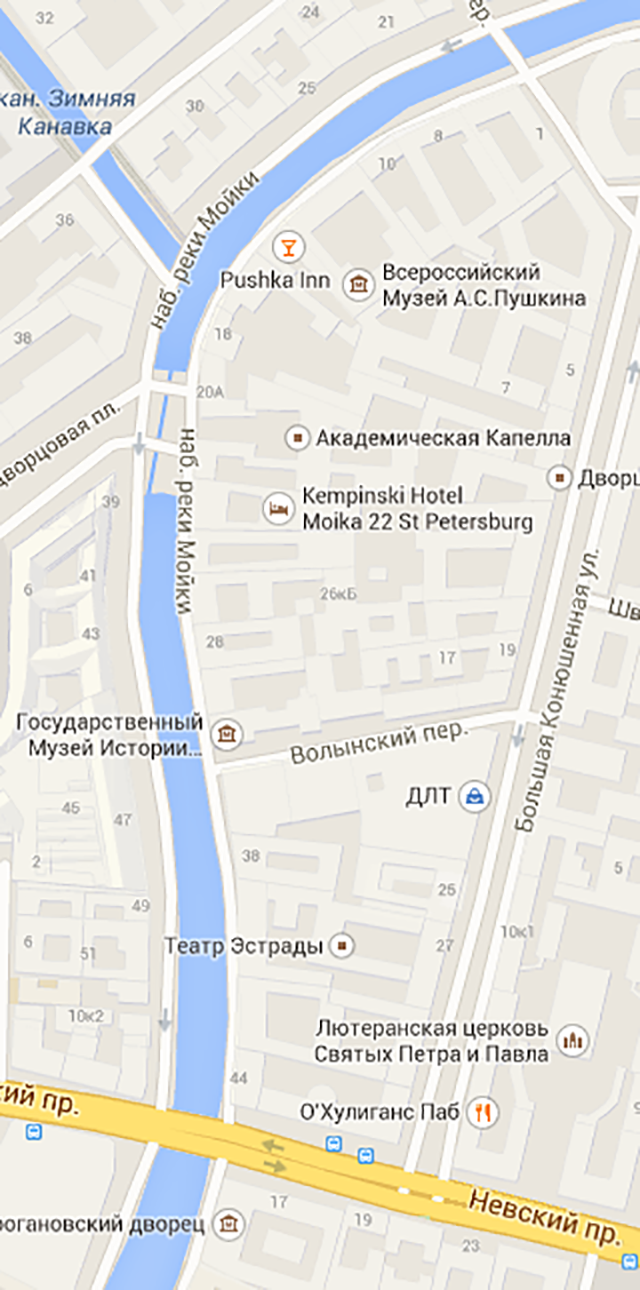
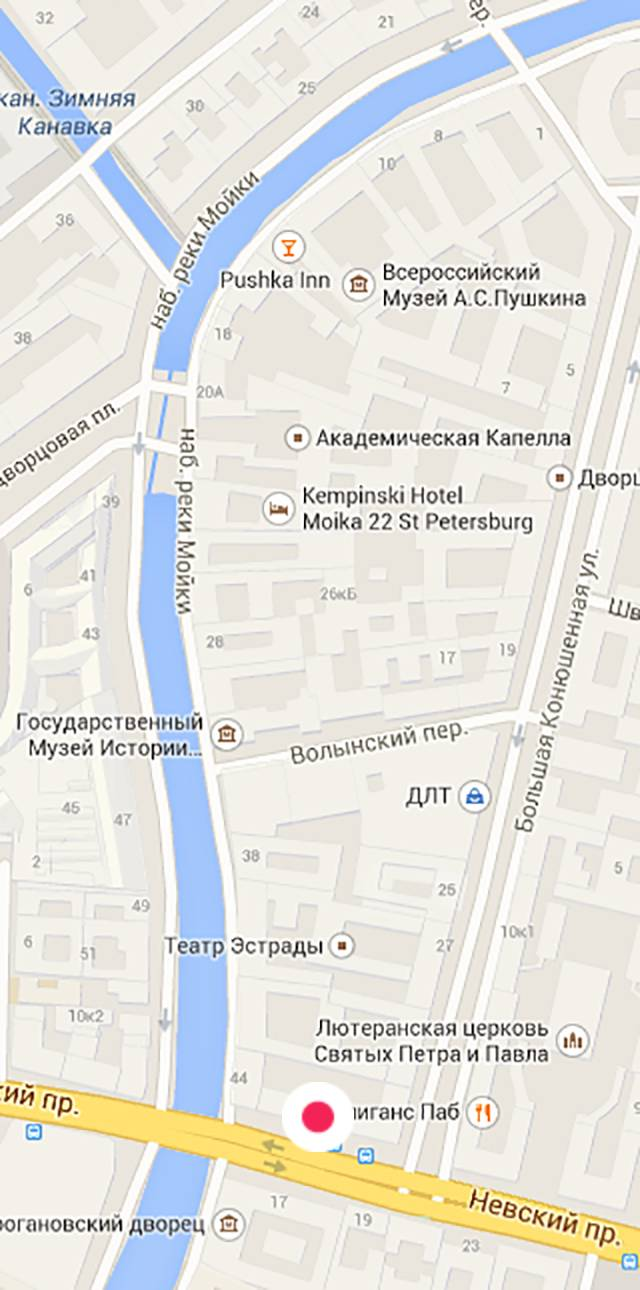
Добавляет картинку карты на главной странице - 1 вариант

diff --git a/source/index.html b/source/index.html
@@ -332,8 +332,12 @@
     </section>
     <section class="map">
       <h2 class="visually-hidden">Карта проезда</h2>
-      <div class="map__interactive container" id="map">
-        <img class="map__image" src="img/bg-map-mobile@1x.png" width="320" height="200" alt="Карта проезда">
+      <div class="map__interactive" id="map">
+        <picture>
+          <source media="(min-width: 960px)" srcset="img/bg-map-desktop@1x.jpg 1x, img/bg-map-desktop@2x.jpg 2x">
+          <source media="(min-width: 660px)" srcset="img/bg-map-tablet@1x.jpg 1x, img/bg-map-tablet@2x.jpg 2x">
+          <img class="map__image" src="img/bg-map-mobile@1x.png" srcset="img/bg-map-mobile@2x.jpg 2x" width="320" height="645" alt="Схема проезда">
+        </picture>
       </div>
     </section>
     <footer class="page-footer page-footer--hide">

diff --git a/source/less/blocks/map.less b/source/less/blocks/map.less
@@ -3,14 +3,39 @@
   background-repeat: no-repeat;
   background-position: top center;
   background-size: contain;
+  /*
+  background-image: url("../img/bg-map-mobile@1x.png");
+  background-repeat: no-repeat;
+  background-position: bottom center;
+  background-size: cover;
+
+  @media (min-resolution: @retina-dpi), (min-resolution: @retina-dppx) {
+    background-image: url("../img/bg-map-mobile@2x.jpg");
+  }
+  */
 }
 
 .map__interactive {
-  padding: 0;
+  position: relative;
+  height: 200px;
+  overflow: hidden;
+  z-index: -1;
 }
 
 .map__image {
-  display: block;
-  position: relative;
-  z-index: -1;
+  position: absolute;
+  bottom: 0;
+  width: 100%;
+}
+
+@media (min-width: @tablet-width) {
+  .map__interactive {
+    height: 375px;
+  }
+}
+
+@media (min-width: @desktop-width) {
+  .map__interactive {
+    height: 500px;
+  }
 }
